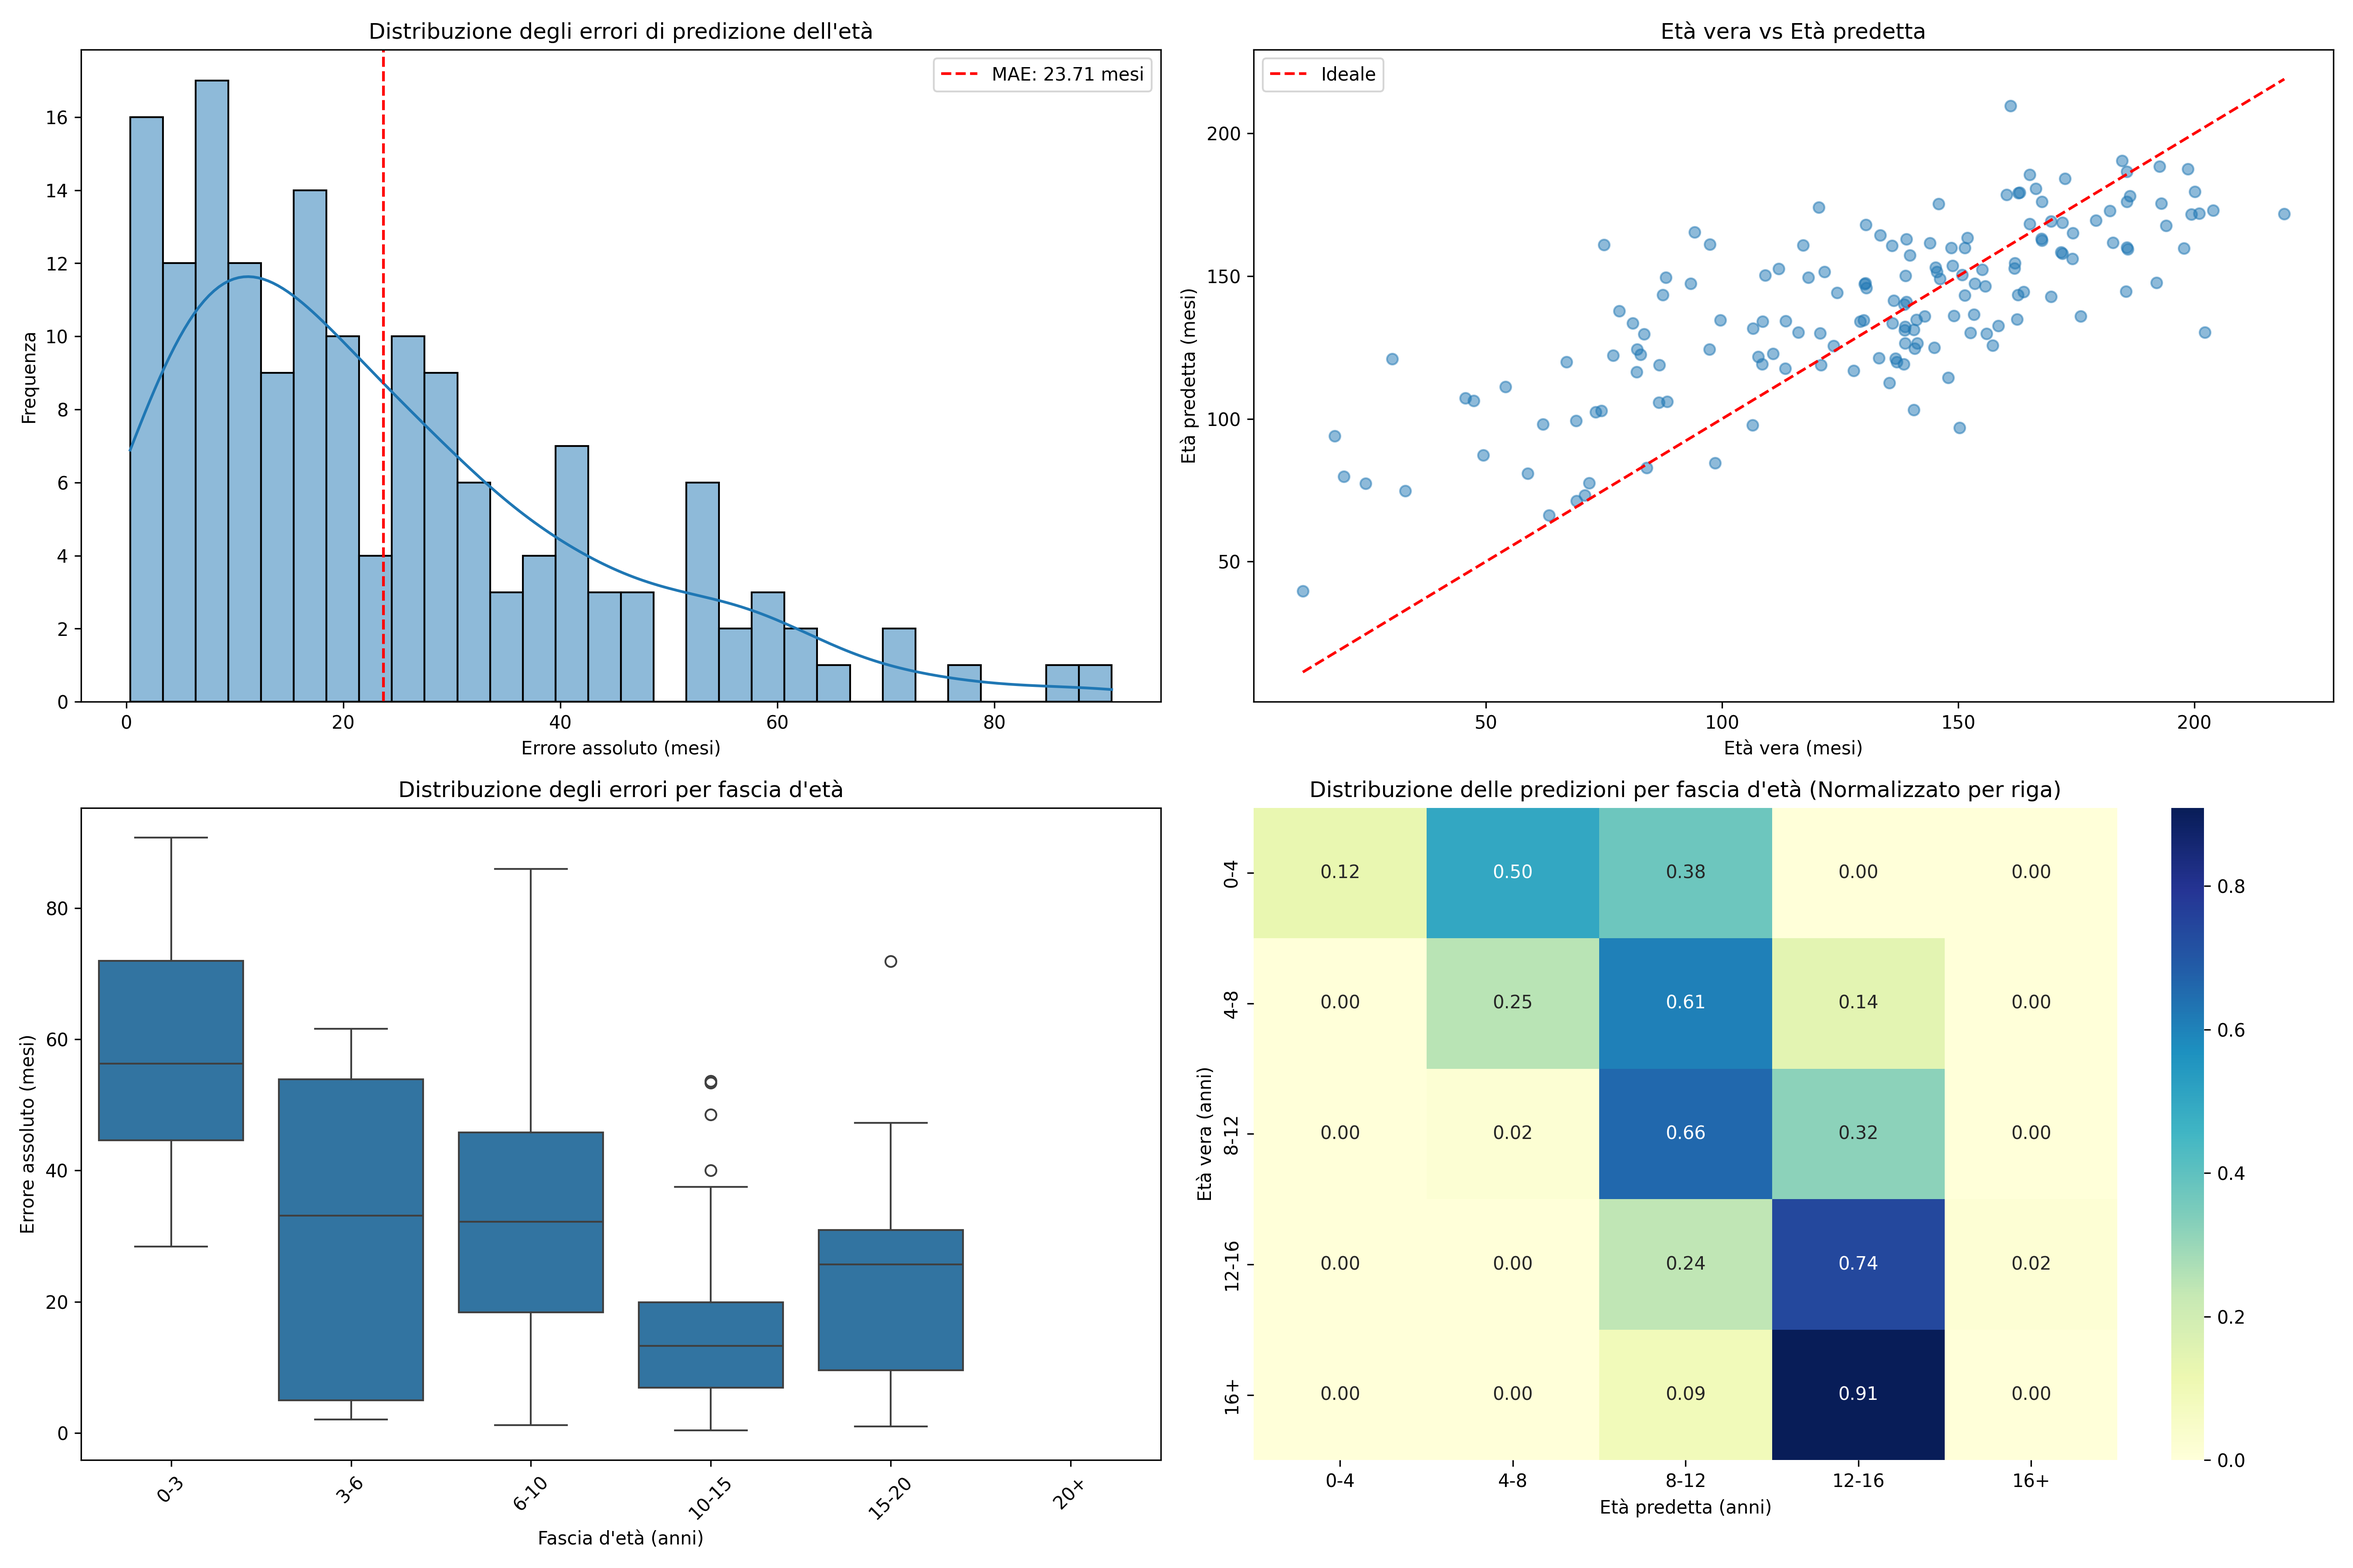
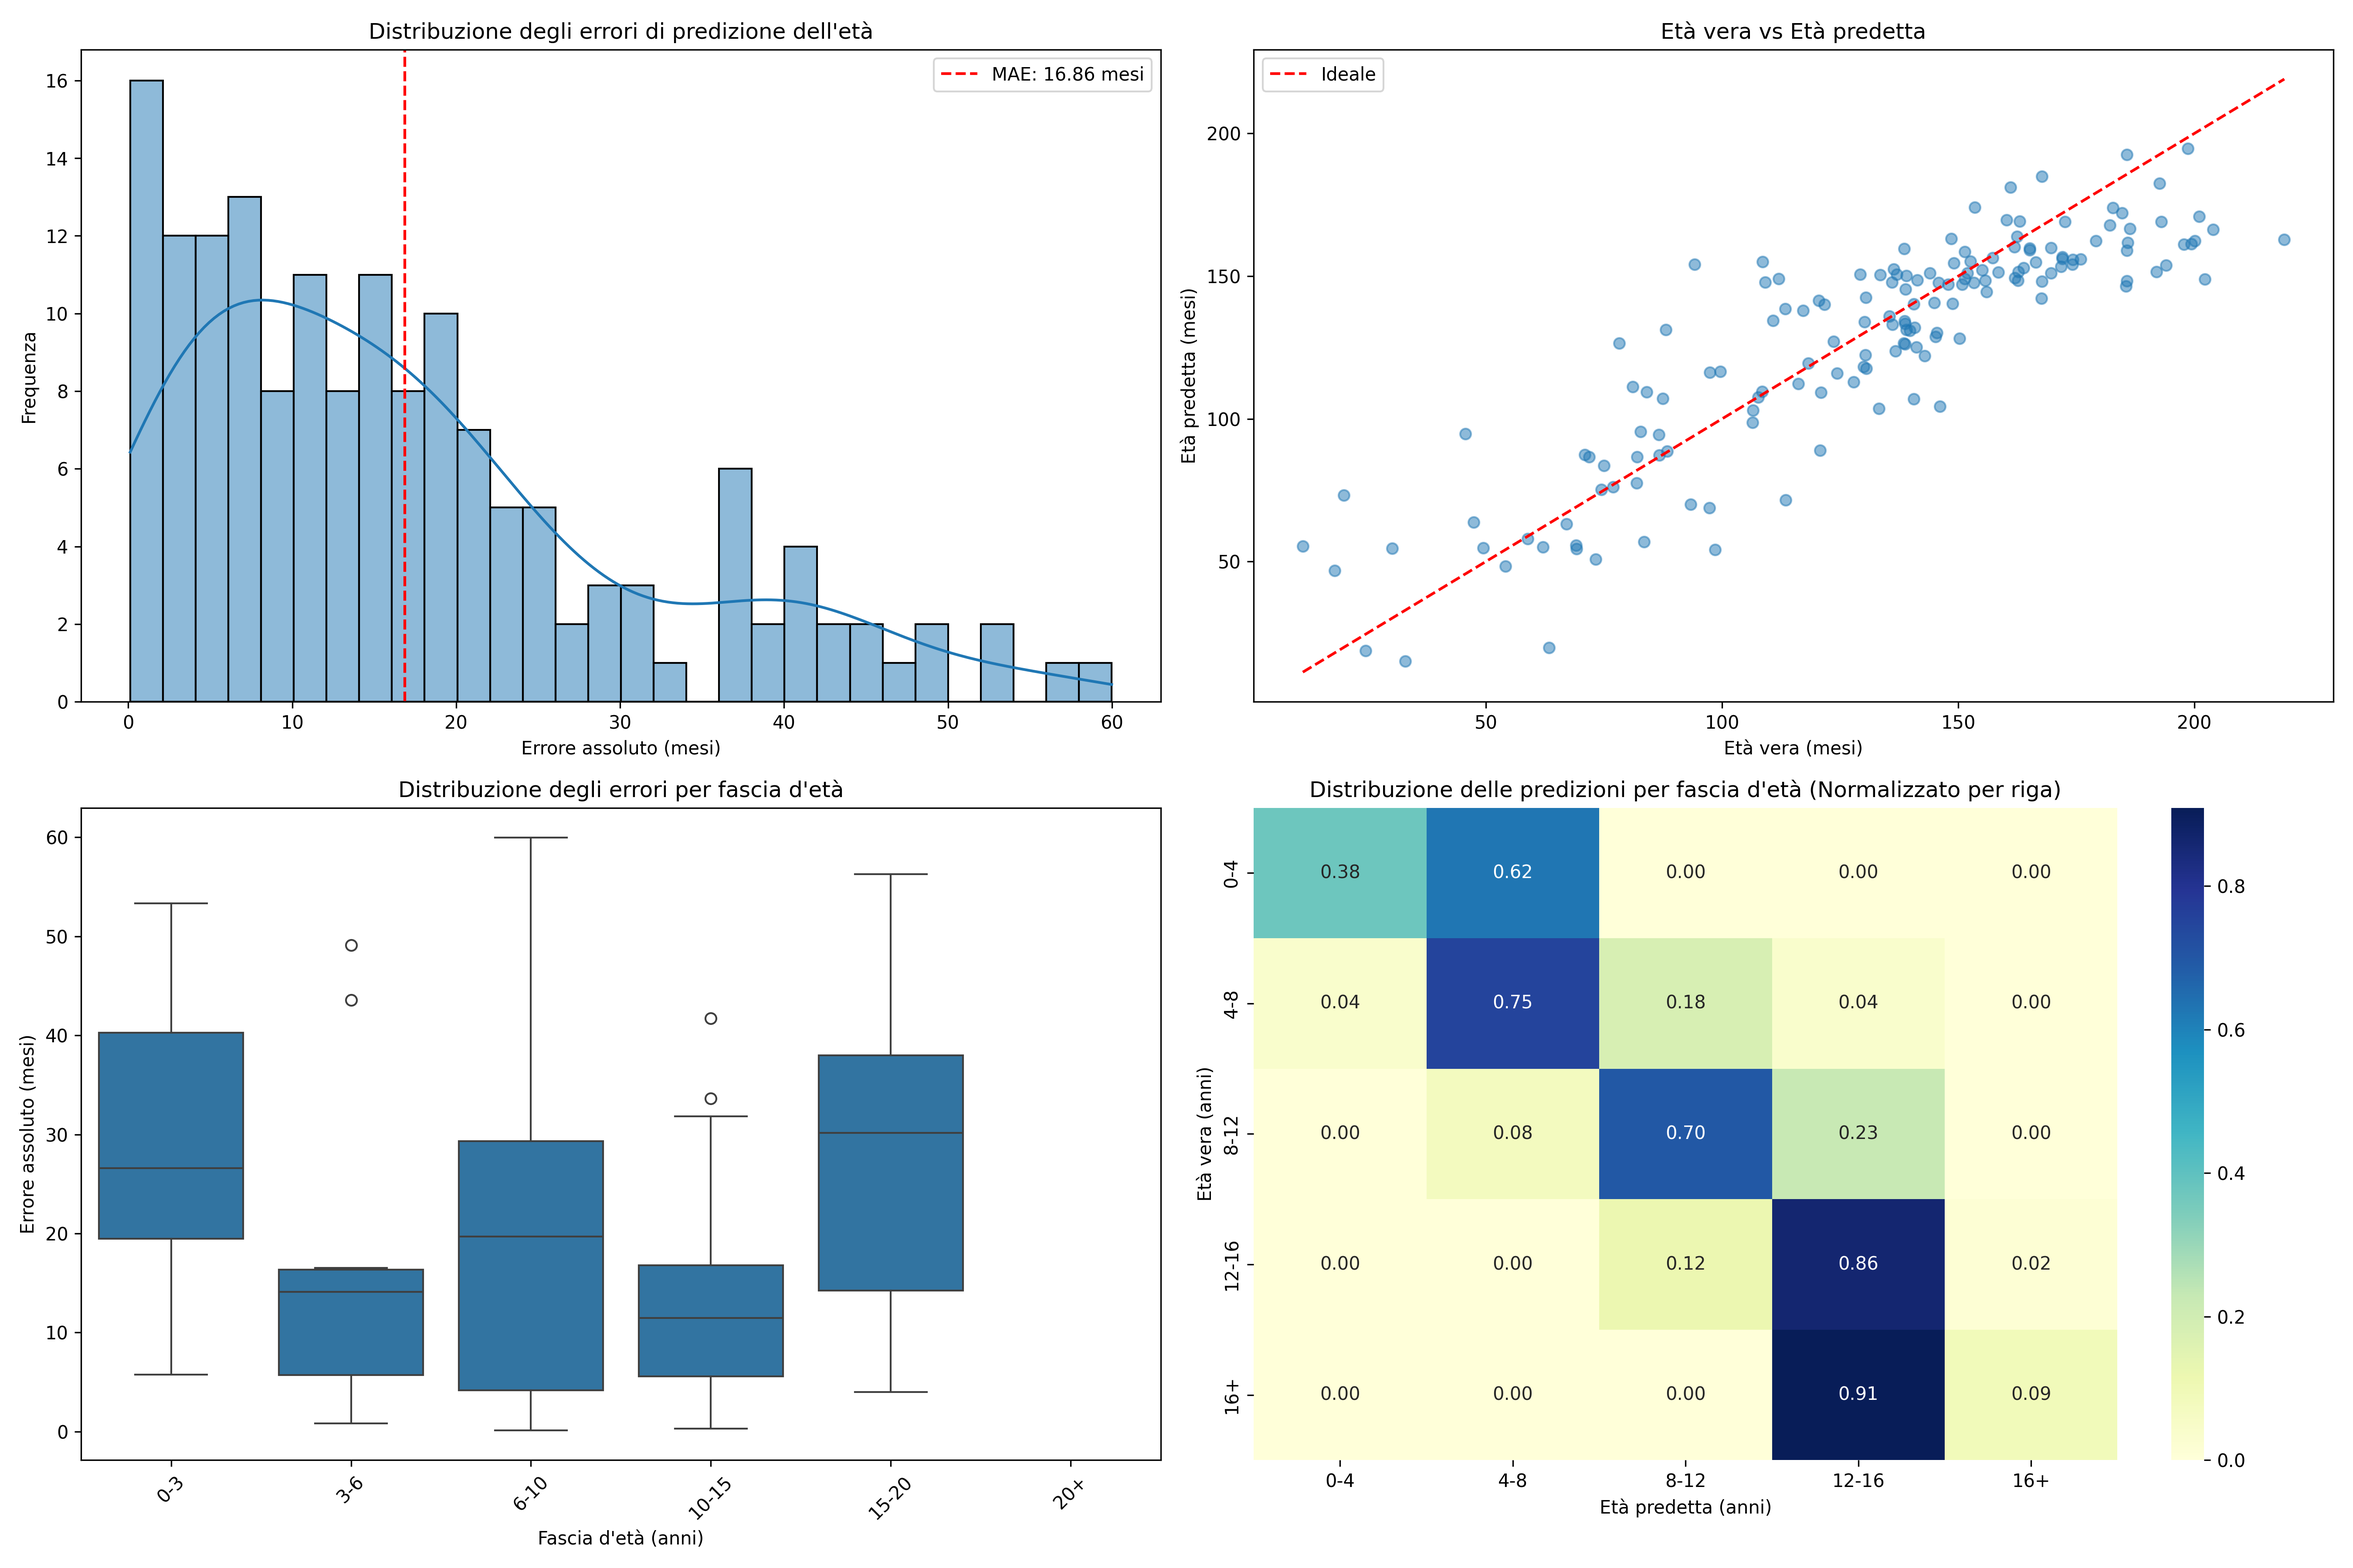
MAE 16.8

diff --git a/src/preprocessing/PreprocessImage.py b/src/preprocessing/PreprocessImage.py
@@ -81,13 +81,33 @@ def resize(image_gray: np.ndarray, output_size: int = OUTPUT_SIZE) -> np.ndarray
     resized_img = cv2.resize(padded_img, (output_size, output_size), interpolation=cv2.INTER_AREA)
     return resized_img
 
+
 def aug(image: np.ndarray) -> np.ndarray:
-    # random horizontal flip
+    """
+    Applies a set of random augmentations to the image.
+    Includes: horizontal flip, rotations, inversion, brightness, contrast.
+    """
+    # Random horizontal flip
     if random.random() > 0.5:
         image = cv2.flip(image, 1)
 
-    # random 90/180/270 deg rotation
+    # Random 90/180/270 deg rotation
     rot_code = random.choice([None, cv2.ROTATE_90_CLOCKWISE, cv2.ROTATE_180, cv2.ROTATE_90_COUNTERCLOCKWISE])
     if rot_code is not None:
         image = cv2.rotate(image, rot_code)
+
+    # Random inversion (negative image)
+    if random.random() > 0.5:
+        image = 255 - image  # Invert pixel values for 8-bit grayscale
+
+    # Random brightness adjustment
+    if random.random() > 0.5:
+        alpha = random.uniform(0.7, 1.3)  # Factor for brightness (1.0 is no change)
+        image = cv2.convertScaleAbs(image, alpha=alpha, beta=0)
+
+    # Random contrast adjustment
+    if random.random() > 0.5:
+        alpha = random.uniform(0.7, 1.3)  # Factor for contrast
+        image = cv2.convertScaleAbs(image, alpha=alpha, beta=0)
+
     return image

diff --git a/src/training/training_pipeline.py b/src/training/training_pipeline.py
@@ -5,7 +5,7 @@ import tensorflow as tf
 from src.training.RadiographTraining import train_model
 
 
-def training_pipeline(base_dir_train, label_train, label_val, base_dir_val, img_sizes=128):
+def training_pipeline(base_dir_train, label_train, label_val, base_dir_val, img_sizes=256):
     builder_train = RadiographDatasetBuilder(
         base_dir=base_dir_train,
         label_csv=label_train,
@@ -43,7 +43,7 @@ def training_pipeline(base_dir_train, label_train, label_val, base_dir_val, img_
             model_builder.model,          # Passa l'oggetto modello compilato
             train_dataset,                # Dataset di training
             validation_dataset=val_dataset, # Dataset di validazione
-            epochs=10,                     # Numero di epoche ridotto per un test veloce
+            epochs=50,
             model_save_path='best_age_prediction_model_standalone.keras'
         )
         print(f"Training history keys: {history.history.keys()}")

diff --git a/src/testing/evaluate.py b/src/testing/evaluate.py
@@ -8,7 +8,7 @@ from src.dataset.RadiographDataset import RadiographDatasetBuilder
 
 
 # --- Funzione di Valutazione per Modello Salvato ---
-def evaluate_saved_model(model_path, test_dataset_path, label_test_dataset_path, img_sizes=128):
+def evaluate_saved_model(model_path, test_dataset_path, label_test_dataset_path, img_sizes=256):
     """
     Carica un modello Keras salvato, lo valuta su un dataset di test e raccoglie
     le predizioni e le etichette vere.

diff --git a/src/preprocessing/PreprocessPipeline.py b/src/preprocessing/PreprocessPipeline.py
@@ -26,7 +26,7 @@ def preprocess_pipeline(folder, Train=False, Test=False, Val=True):
         subdir_output = os.path.join(folder, prep_img_dir)
         preprocess_images(subdir_input, subdir_output)
 
-def preprocess_images(input_path, output_path, output_size=128, augment=False):
+def preprocess_images(input_path, output_path, output_size=256, augment=False):
 
     print(f"Input directory:  {input_path}")
     print(f"Output directory: {output_path}")

diff --git a/main.py b/main.py
@@ -11,7 +11,7 @@ def main():
     # test_labels(test_path)
     # val_labels(val_path)
 
-    radiograph_pipeline(preprocess=False, training=True, evaluate=True)
+    radiograph_pipeline(preprocess=False, training=False, evaluate=True)
     # load_structure()
 
 
